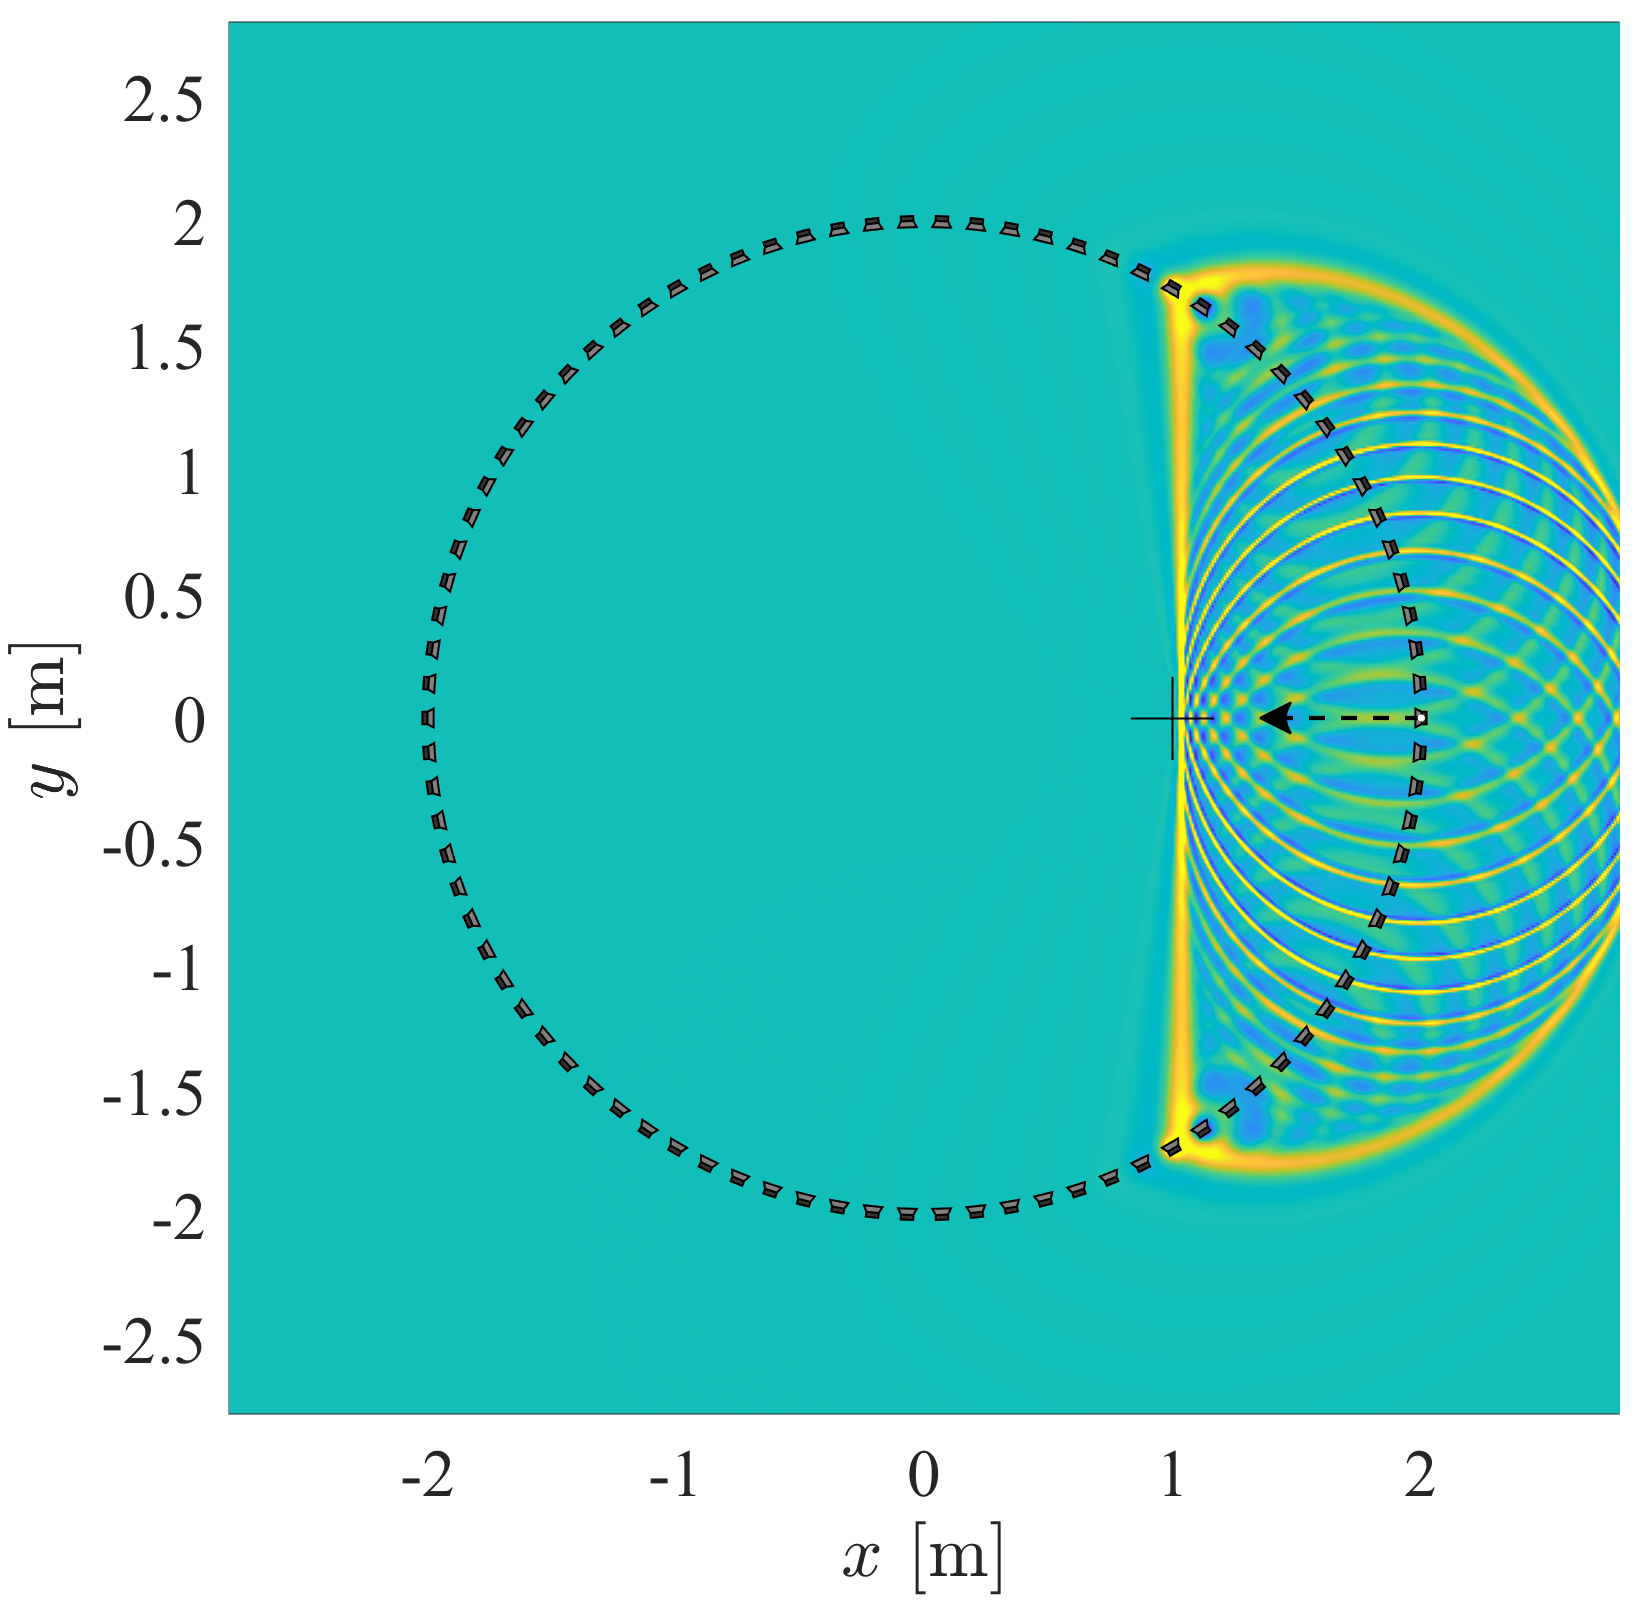
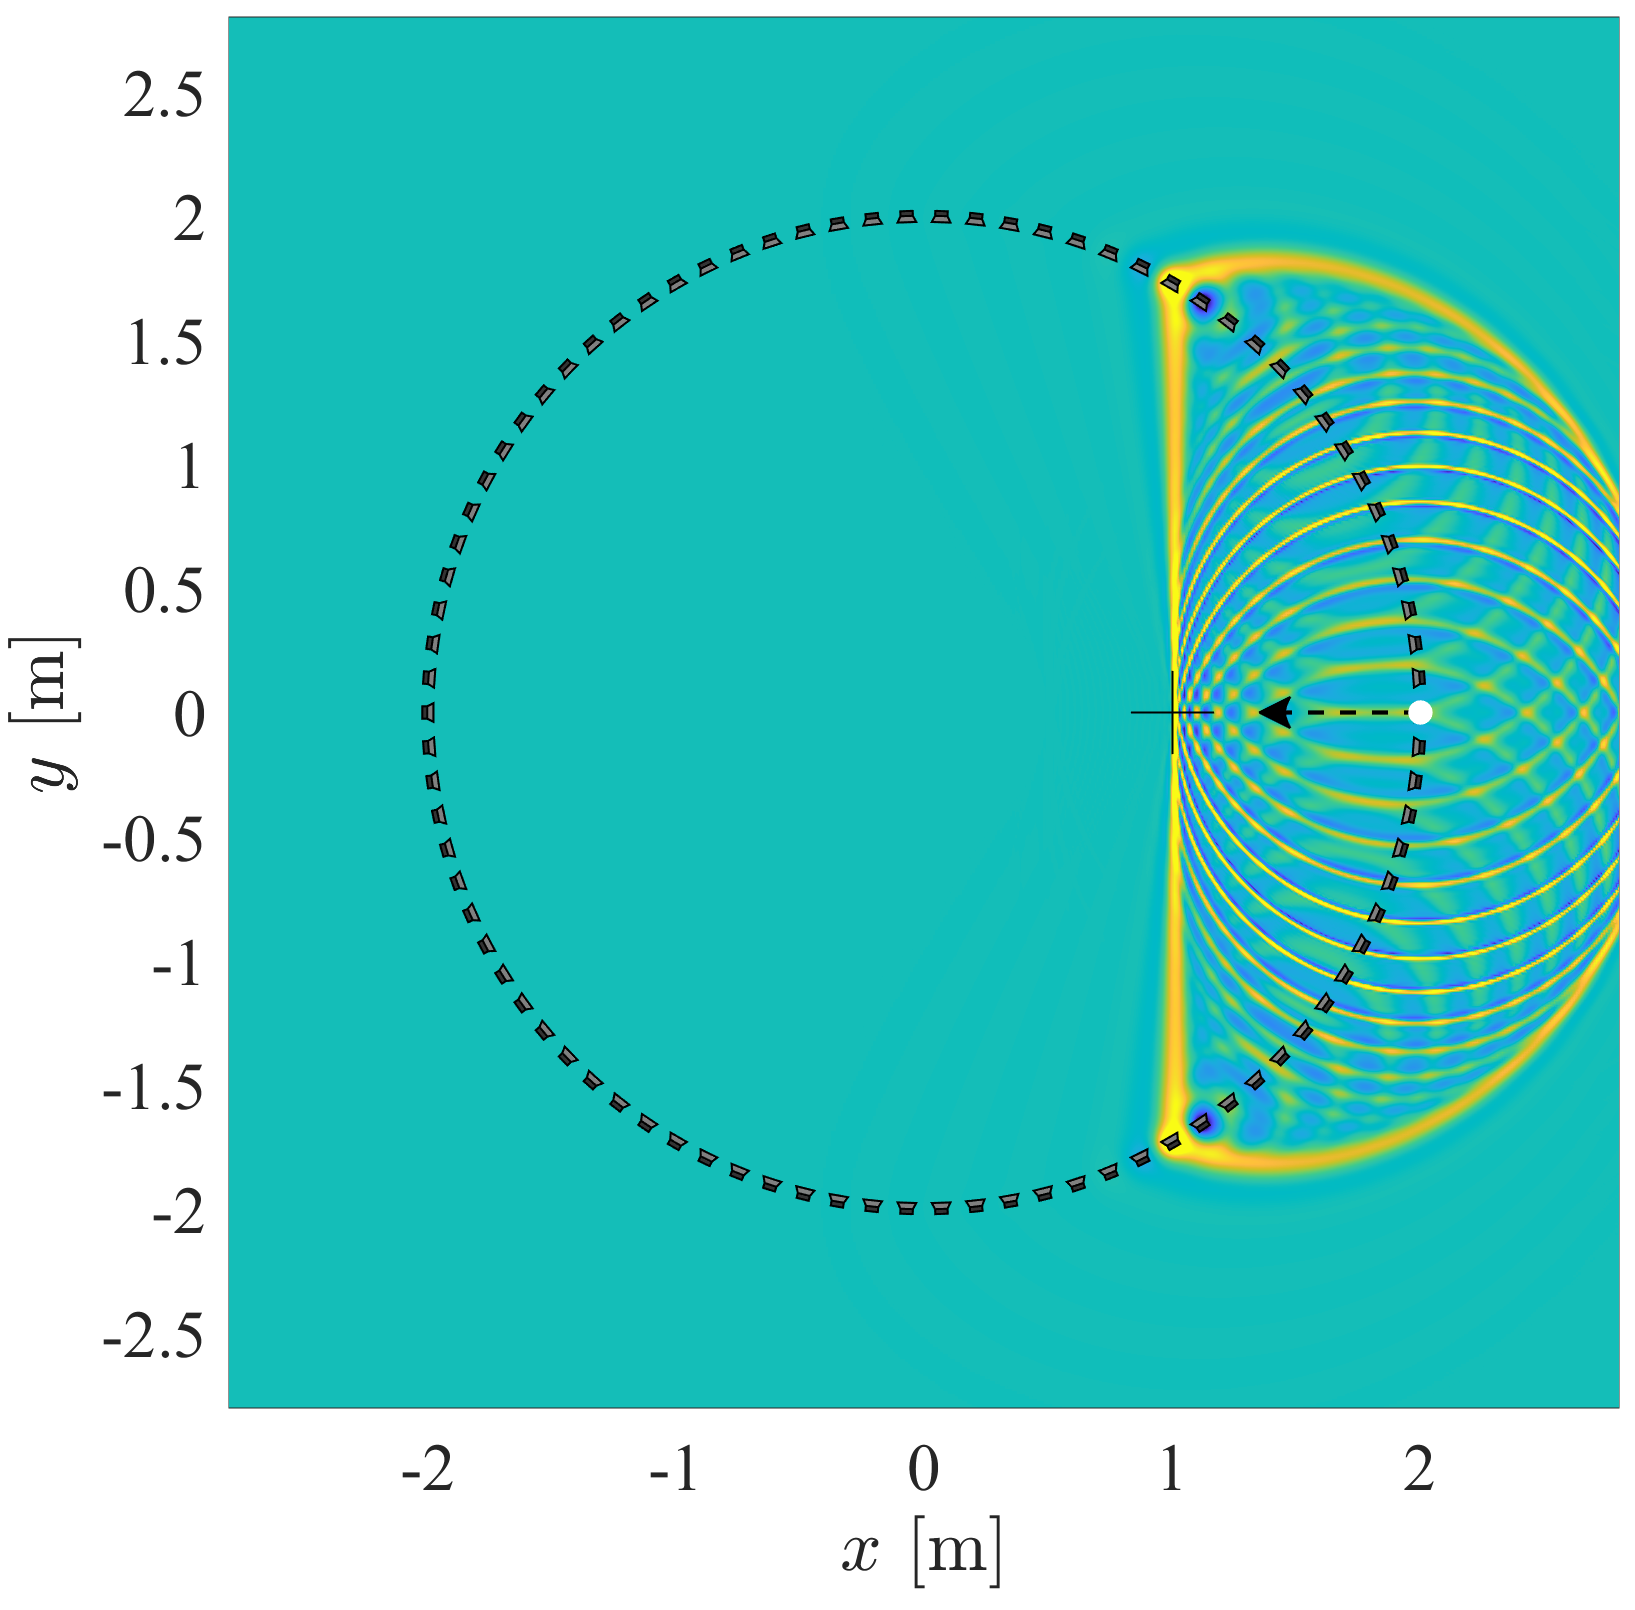
matlab_added

diff --git a/paper/main.tex b/paper/main.tex
@@ -473,23 +473,23 @@ while Figure \ref{Fig:assymm_antialiasing}, illustrating asymmetrical filtering 
 In both cases in Figure \ref{Fig:symm_antialiasing} and \ref{Fig:assymm_antialiasing} (a) the reference position is denoted by a black cross.
 
 \section{Comparison with direct modal bandlimitation}
-Finally, the performance of the proposed Local Wave Field Synthesis approach is compared with conventional a LWFS implementation, based on direct modal bandlimitation.
-
-\input{lwfs-spl.tex}
-
 \begin{figure*}[h!]
     \begin{center}
-        \begin{overpic}[width = 0.45\columnwidth]{figs/firtha_center.png}
+        \begin{overpic}[width = 0.45\columnwidth]{figs/firtha_center2.png}
             \footnotesize \put(0,2){(a)}
+            \footnotesize \put(45,102){Center}
         \end{overpic} \hspace{3mm}
-        \begin{overpic}[width = 0.45\columnwidth]{figs/firtha_right.png}
+        \begin{overpic}[width = 0.45\columnwidth]{figs/firtha_left2.png}
             \footnotesize \put(0,2){(b)}
+            \footnotesize \put(45,102){Left}
         \end{overpic}\hspace{3mm}
         \begin{overpic}[width = 0.45\columnwidth]{figs/firtha_front.png}
             \footnotesize \put(0,2){(c)}
+            \footnotesize \put(45,102){Front}
         \end{overpic} \hspace{3mm}
         \begin{overpic}[width = 0.45\columnwidth]{figs/firtha_back.png}
             \footnotesize \put(0,2){(d)}
+            \footnotesize \put(45,102){Back}
         \end{overpic}\\  \vspace{5mm}
         \begin{overpic}[width = 0.45\columnwidth]{figs/nara_center.png}
             \footnotesize \put(0,2){(e)}
@@ -516,9 +516,16 @@ Finally, the performance of the proposed Local Wave Field Synthesis approach is 
             \footnotesize \put(0,2){(l)}
         \end{overpic}\\
     \end{center}
-    \caption{fg}
+    \caption{Comparison of the proposed, temporal filtering/based LWFS approach with direct modal bandlimitation.
+    }
     \label{Fig:aliasing}
 \end{figure*}
+
+Finally, the performance of the proposed Local Wave Field Synthesis approach is compared with conventional a LWFS implementation, based on direct modal bandlimitation.
+
+\input{lwfs-spl.tex}
+
+
 
 \section{Conclusion}
 

diff --git a/MATLAB/spectrum_illustration.m b/MATLAB/spectrum_illustration.m
@@ -3,7 +3,7 @@ close all
 
 q = 10;
 R0 = 2;
-Nssd = 4*600;
+Nssd = 2400;
 [x0,y0] = pol2cart(linspace(0,360*(1-1/Nssd), Nssd)'*pi/180,repmat(R0,Nssd,1));
 x0 = [x0,y0];
 n0 = -x0/R0;
